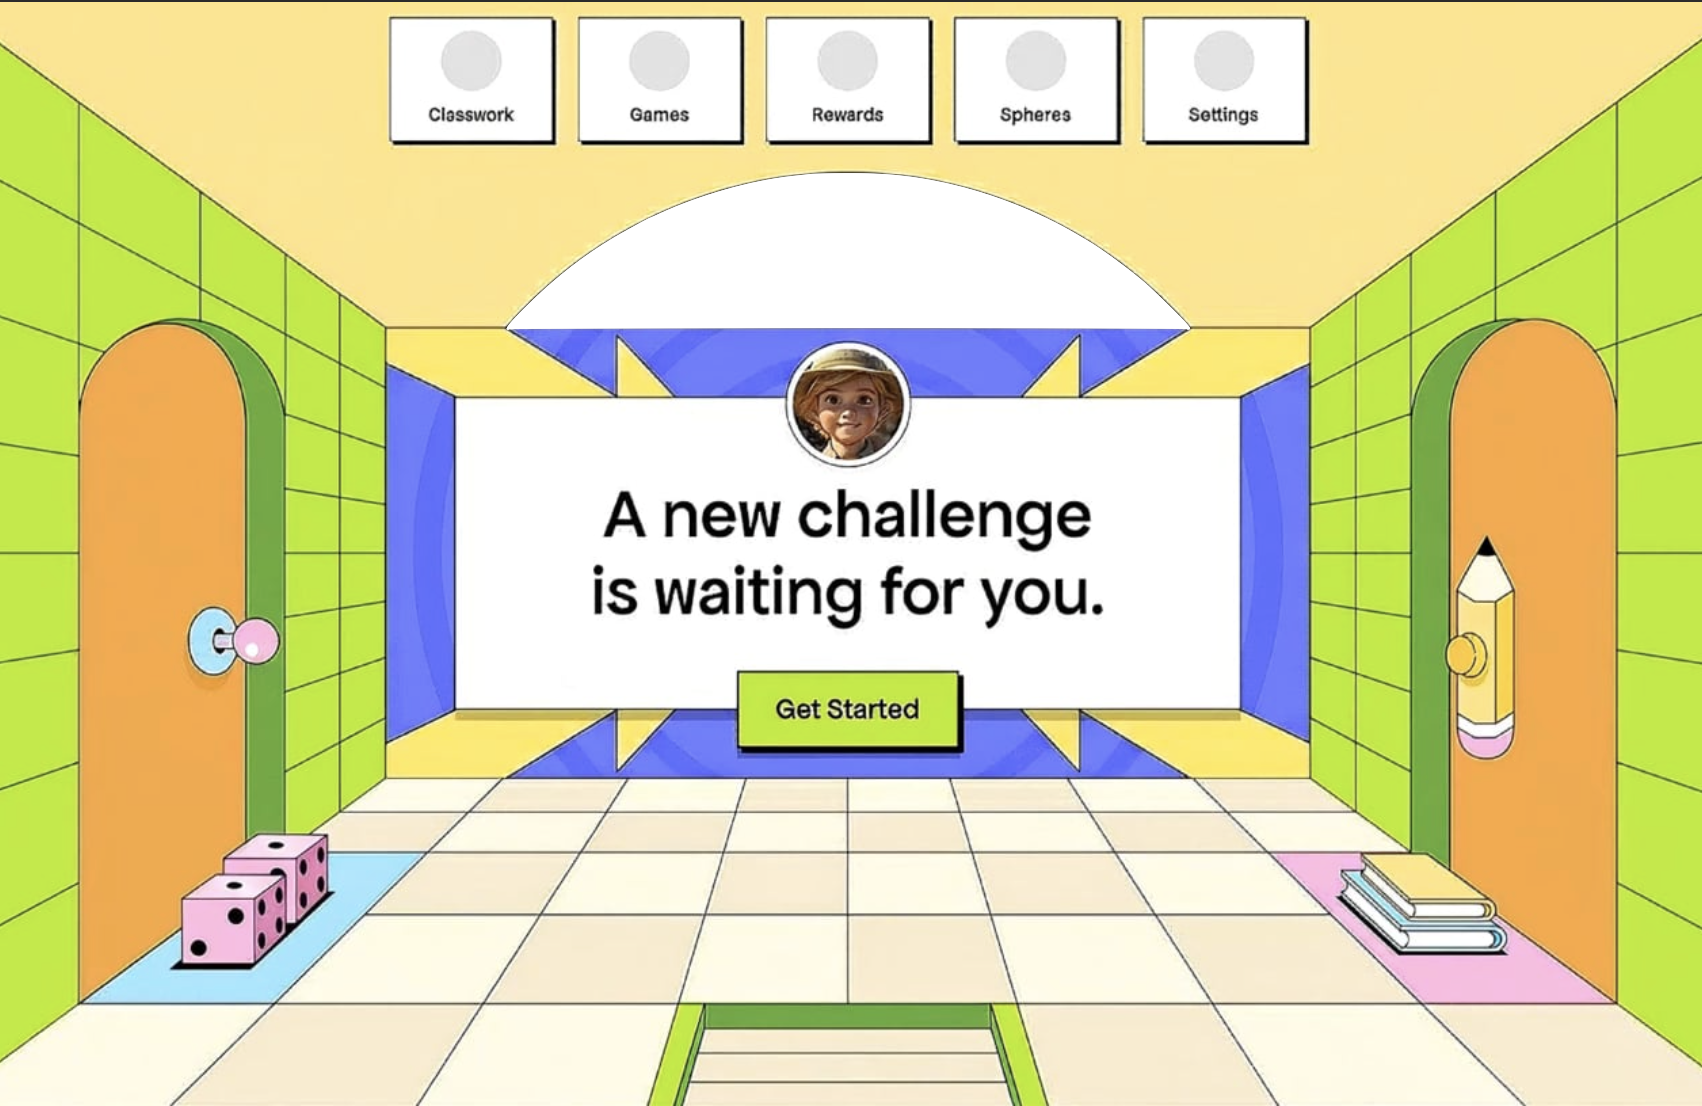
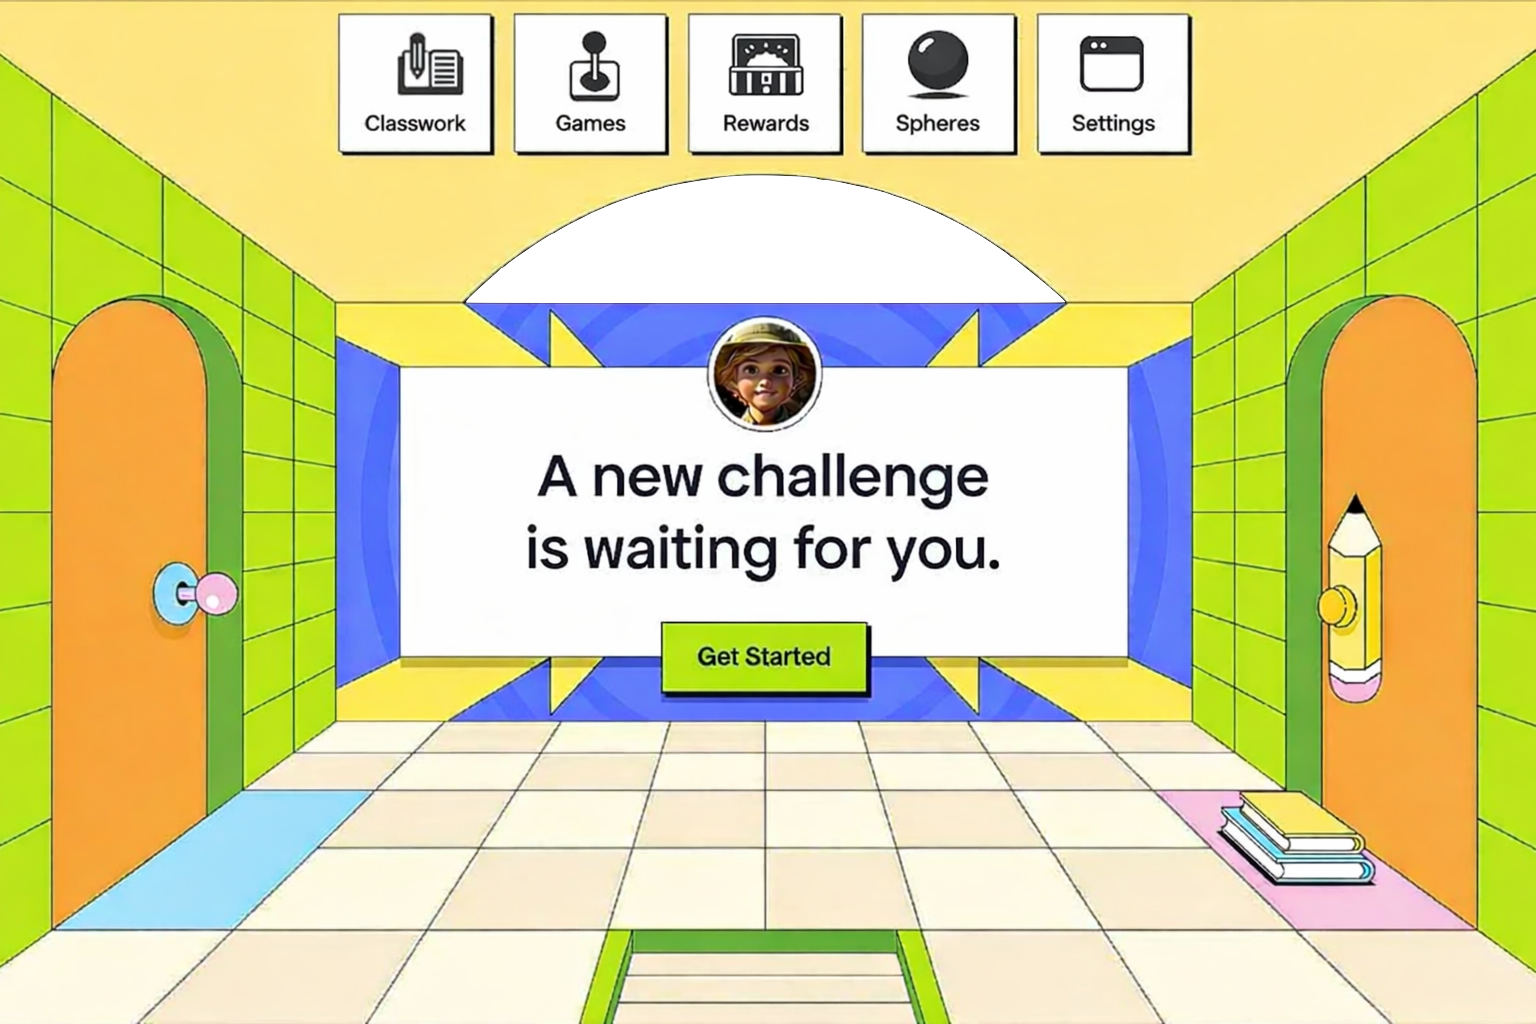
Add 3D dice to home prototype and update classroom image
- Replace classroom-transparent.png with new bright learning room image
- Add interactive 3D CSS dice to home-prototype.html
- Include debug controls for positioning dice on the classroom floor
- Dice appear when scrolling into classroom view and can be clicked to roll

🤖 Generated with [Claude Code](https://claude.com/claude-code)

diff --git a/home-prototype.html b/home-prototype.html
@@ -187,6 +187,140 @@
             stroke-width: 2;
             fill: none;
         }
+
+        /* ============ DICE STYLES ============ */
+        .dice-scene {
+            position: absolute;
+            z-index: 4;
+            perspective: 4000px;
+            perspective-origin: 50% 50%;
+            opacity: 0;
+            pointer-events: none;
+            left: 72px;
+            bottom: -209px;
+        }
+
+        .dice-scene.visible {
+            opacity: 1;
+            pointer-events: auto;
+        }
+
+        .dice-table {
+            position: relative;
+            width: 700px;
+            height: 400px;
+            transform-style: preserve-3d;
+            cursor: pointer;
+        }
+
+        .dice-container {
+            position: absolute;
+            width: 700px;
+            height: 500px;
+            transform-style: preserve-3d;
+            transform-origin: center top;
+            transform: rotateX(70deg) rotateZ(0deg);
+        }
+
+        .dice-wrapper {
+            position: absolute;
+            transform-style: preserve-3d;
+        }
+
+        .dice {
+            width: 60px;
+            height: 60px;
+            position: relative;
+            transform-style: preserve-3d;
+            cursor: pointer;
+        }
+
+        .face {
+            position: absolute;
+            width: 60px;
+            height: 60px;
+            background: #f8c8dc;
+            border: 1px solid #1a1a1a;
+            border-radius: 0;
+            backface-visibility: visible;
+        }
+
+        .dot {
+            position: absolute;
+            width: 10px;
+            height: 10px;
+            background: #1a1a1a;
+            border-radius: 50%;
+        }
+
+        /* Face positions */
+        .face-1 { transform: rotateY(0deg) translateZ(30px); }
+        .face-6 { transform: rotateY(180deg) translateZ(30px); }
+        .face-2 { transform: rotateY(-90deg) translateZ(30px); }
+        .face-5 { transform: rotateY(90deg) translateZ(30px); }
+        .face-3 { transform: rotateX(90deg) translateZ(30px); }
+        .face-4 { transform: rotateX(-90deg) translateZ(30px); }
+
+        /* Dot positions */
+        .face-1 .dot { top: 50%; left: 50%; transform: translate(-50%, -50%); }
+        .face-2 .dot:nth-child(1) { top: 10px; left: 10px; }
+        .face-2 .dot:nth-child(2) { bottom: 10px; right: 10px; }
+        .face-3 .dot:nth-child(1) { top: 10px; left: 10px; }
+        .face-3 .dot:nth-child(2) { top: 50%; left: 50%; transform: translate(-50%, -50%); }
+        .face-3 .dot:nth-child(3) { bottom: 10px; right: 10px; }
+        .face-4 .dot:nth-child(1) { top: 10px; left: 10px; }
+        .face-4 .dot:nth-child(2) { top: 10px; right: 10px; }
+        .face-4 .dot:nth-child(3) { bottom: 10px; left: 10px; }
+        .face-4 .dot:nth-child(4) { bottom: 10px; right: 10px; }
+        .face-5 .dot:nth-child(1) { top: 10px; left: 10px; }
+        .face-5 .dot:nth-child(2) { top: 10px; right: 10px; }
+        .face-5 .dot:nth-child(3) { top: 50%; left: 50%; transform: translate(-50%, -50%); }
+        .face-5 .dot:nth-child(4) { bottom: 10px; left: 10px; }
+        .face-5 .dot:nth-child(5) { bottom: 10px; right: 10px; }
+        .face-6 .dot:nth-child(1) { top: 10px; left: 10px; }
+        .face-6 .dot:nth-child(2) { top: 10px; right: 10px; }
+        .face-6 .dot:nth-child(3) { top: 50%; left: 10px; transform: translateY(-50%); }
+        .face-6 .dot:nth-child(4) { top: 50%; right: 10px; transform: translateY(-50%); }
+        .face-6 .dot:nth-child(5) { bottom: 10px; left: 10px; }
+        .face-6 .dot:nth-child(6) { bottom: 10px; right: 10px; }
+
+        /* Splash effect */
+        .splash {
+            position: absolute;
+            width: 20px;
+            height: 20px;
+            border-radius: 50%;
+            pointer-events: none;
+            opacity: 0;
+        }
+
+        @keyframes splashOut {
+            0% { transform: translate(-50%, -50%) scale(1); opacity: 1; }
+            100% { transform: translate(calc(-50% + var(--x)), calc(-50% + var(--y))) scale(0.2); opacity: 0; }
+        }
+
+        /* Debug controls */
+        .dice-debug {
+            position: fixed;
+            bottom: 20px;
+            right: 20px;
+            background: white;
+            padding: 15px;
+            border-radius: 8px;
+            box-shadow: 0 2px 10px rgba(0,0,0,0.2);
+            z-index: 1000;
+            font-family: system-ui;
+            font-size: 12px;
+        }
+
+        .dice-debug label {
+            display: block;
+            margin: 8px 0 4px;
+        }
+
+        .dice-debug input[type="range"] {
+            width: 150px;
+        }
     </style>
 </head>
 <body>
@@ -214,6 +348,35 @@
                 <path d="M8 3H5a2 2 0 0 0-2 2v3m18 0V5a2 2 0 0 0-2-2h-3m0 18h3a2 2 0 0 0 2-2v-3M3 16v3a2 2 0 0 0 2 2h3"/>
             </svg>
         </button>
+
+        <!-- Dice Scene -->
+        <div class="dice-scene" id="dice-scene">
+            <div class="dice-table" id="dice-table-home">
+                <div class="dice-container" id="dice-container-home">
+                    <div class="dice-wrapper" style="left: 110px; top: 170px;">
+                        <div class="dice" id="dice1"></div>
+                    </div>
+                    <div class="dice-wrapper" style="left: 110px; top: 75px;">
+                        <div class="dice" id="dice2"></div>
+                    </div>
+                </div>
+            </div>
+        </div>
+
+        <!-- Debug Controls for Dice Positioning -->
+        <div class="dice-debug" id="dice-debug" style="display: none;">
+            <strong>Dice Position</strong>
+            <label>Left: <span id="debug-left-val">72</span>px</label>
+            <input type="range" id="debug-left" min="0" max="500" value="72">
+            <label>Bottom: <span id="debug-bottom-val">-209</span>px</label>
+            <input type="range" id="debug-bottom" min="-400" max="500" value="-209">
+            <label>Angle (tilt): <span id="debug-angle-val">70</span>°</label>
+            <input type="range" id="debug-angle" min="30" max="85" value="70">
+            <label>Rotation (top): <span id="debug-rotation-val">0</span>°</label>
+            <input type="range" id="debug-rotation" min="-45" max="45" value="0">
+            <label>Scale: <span id="debug-scale-val">1</span></label>
+            <input type="range" id="debug-scale" min="0.5" max="2" step="0.1" value="1">
+        </div>
     </div>
 
     <!-- Three.js -->
@@ -474,6 +637,177 @@
                 icon.innerHTML = '<path d="M8 3H5a2 2 0 0 0-2 2v3m18 0V5a2 2 0 0 0-2-2h-3m0 18h3a2 2 0 0 0 2-2v-3M3 16v3a2 2 0 0 0 2 2h3"/>';
             }
         });
+
+        // ============ DICE ANIMATION ============
+        const FACES = [
+            { face: 1, rotX: 0, rotY: 0 },
+            { face: 2, rotX: 0, rotY: 90 },
+            { face: 3, rotX: -90, rotY: 0 },
+            { face: 4, rotX: 90, rotY: 0 },
+            { face: 5, rotX: 0, rotY: -90 },
+            { face: 6, rotX: 180, rotY: 0 },
+        ];
+
+        let isRolling = false;
+        let diceObjects = [];
+
+        class DiceAnim {
+            constructor(el) {
+                this.el = el;
+                const init = FACES[Math.floor(Math.random() * 6)];
+                this.rotX = init.rotX;
+                this.rotY = init.rotY;
+                this.z = 30;
+                this.result = init.face;
+                this.update();
+            }
+
+            roll() {
+                return new Promise(resolve => {
+                    const land = FACES[Math.floor(Math.random() * 6)];
+                    this.result = land.face;
+
+                    const duration = 1200 + Math.random() * 300;
+                    const start = performance.now();
+                    const startX = this.rotX;
+                    const startY = this.rotY;
+                    const endX = land.rotX + (2 + Math.floor(Math.random() * 2)) * 360;
+                    const endY = land.rotY + (2 + Math.floor(Math.random() * 2)) * 360;
+
+                    const animate = (now) => {
+                        const t = Math.min((now - start) / duration, 1);
+                        const ease = 1 - Math.pow(1 - t, 3);
+                        const h = t < 0.5 ? t * 2 : 2 - t * 2;
+
+                        this.z = 30 + Math.sin(h * Math.PI) * 200;
+                        this.rotX = startX + (endX - startX) * ease;
+                        this.rotY = startY + (endY - startY) * ease;
+                        this.update();
+
+                        if (t < 1) {
+                            requestAnimationFrame(animate);
+                        } else {
+                            this.rotX = land.rotX;
+                            this.rotY = land.rotY;
+                            this.z = 30;
+                            this.update();
+                            this.splash();
+                            resolve();
+                        }
+                    };
+                    requestAnimationFrame(animate);
+                });
+            }
+
+            update() {
+                this.el.style.transform = `translateZ(${this.z}px) rotateX(${this.rotX}deg) rotateY(${this.rotY}deg)`;
+            }
+
+            splash() {
+                const colors = ['#f8c8dc', '#a8d8e8', '#ffe66d', '#a8d060'];
+                const parent = this.el.parentElement;
+                for (let i = 0; i < 12; i++) {
+                    const s = document.createElement('div');
+                    s.className = 'splash';
+                    s.style.background = colors[Math.floor(Math.random() * colors.length)];
+                    s.style.left = '30px';
+                    s.style.top = '30px';
+                    const angle = (i / 12) * 360;
+                    const dist = 40 + Math.random() * 50;
+                    s.style.setProperty('--x', Math.cos(angle * Math.PI / 180) * dist + 'px');
+                    s.style.setProperty('--y', Math.sin(angle * Math.PI / 180) * dist + 'px');
+                    s.style.animation = 'splashOut 0.4s ease-out forwards';
+                    parent.appendChild(s);
+                    setTimeout(() => s.remove(), 400);
+                }
+            }
+        }
+
+        function createDiceHTML() {
+            return `
+                <div class="face face-1"><div class="dot"></div></div>
+                <div class="face face-2"><div class="dot"></div><div class="dot"></div></div>
+                <div class="face face-3"><div class="dot"></div><div class="dot"></div><div class="dot"></div></div>
+                <div class="face face-4"><div class="dot"></div><div class="dot"></div><div class="dot"></div><div class="dot"></div></div>
+                <div class="face face-5"><div class="dot"></div><div class="dot"></div><div class="dot"></div><div class="dot"></div><div class="dot"></div></div>
+                <div class="face face-6"><div class="dot"></div><div class="dot"></div><div class="dot"></div><div class="dot"></div><div class="dot"></div><div class="dot"></div></div>
+            `;
+        }
+
+        function initDice() {
+            const dice1 = document.getElementById('dice1');
+            const dice2 = document.getElementById('dice2');
+            dice1.innerHTML = createDiceHTML();
+            dice2.innerHTML = createDiceHTML();
+            diceObjects = [new DiceAnim(dice1), new DiceAnim(dice2)];
+        }
+
+        async function rollAllDice() {
+            if (isRolling) return;
+            isRolling = true;
+            await Promise.all(diceObjects.map((d, i) =>
+                new Promise(r => setTimeout(() => d.roll().then(r), i * 80))
+            ));
+            isRolling = false;
+        }
+
+        // Click dice to roll
+        document.getElementById('dice-scene').addEventListener('click', rollAllDice);
+
+        // Show/hide dice with classroom
+        const diceScene = document.getElementById('dice-scene');
+        const originalUpdateScene = updateScene;
+        updateScene = function() {
+            originalUpdateScene();
+            const classroomOpacity = smoothstep(0.2, 0.6, progress);
+            if (classroomOpacity > 0.5) {
+                diceScene.classList.add('visible');
+                document.getElementById('dice-debug').style.display = 'block';
+            } else {
+                diceScene.classList.remove('visible');
+                document.getElementById('dice-debug').style.display = 'none';
+            }
+        };
+
+        // Debug controls
+        document.getElementById('debug-left').addEventListener('input', (e) => {
+            const val = e.target.value;
+            document.getElementById('debug-left-val').textContent = val;
+            diceScene.style.left = val + 'px';
+        });
+
+        document.getElementById('debug-bottom').addEventListener('input', (e) => {
+            const val = e.target.value;
+            document.getElementById('debug-bottom-val').textContent = val;
+            diceScene.style.bottom = val + 'px';
+        });
+
+        let currentAngle = 70;
+        let currentRotation = 0;
+
+        function updateDiceTransform() {
+            document.getElementById('dice-container-home').style.transform = `rotateX(${currentAngle}deg) rotateZ(${currentRotation}deg)`;
+        }
+
+        document.getElementById('debug-angle').addEventListener('input', (e) => {
+            currentAngle = e.target.value;
+            document.getElementById('debug-angle-val').textContent = currentAngle;
+            updateDiceTransform();
+        });
+
+        document.getElementById('debug-rotation').addEventListener('input', (e) => {
+            currentRotation = e.target.value;
+            document.getElementById('debug-rotation-val').textContent = currentRotation;
+            updateDiceTransform();
+        });
+
+        document.getElementById('debug-scale').addEventListener('input', (e) => {
+            const val = e.target.value;
+            document.getElementById('debug-scale-val').textContent = val;
+            diceScene.style.transform = `scale(${val})`;
+        });
+
+        initDice();
     </script>
 </body>
 </html>
